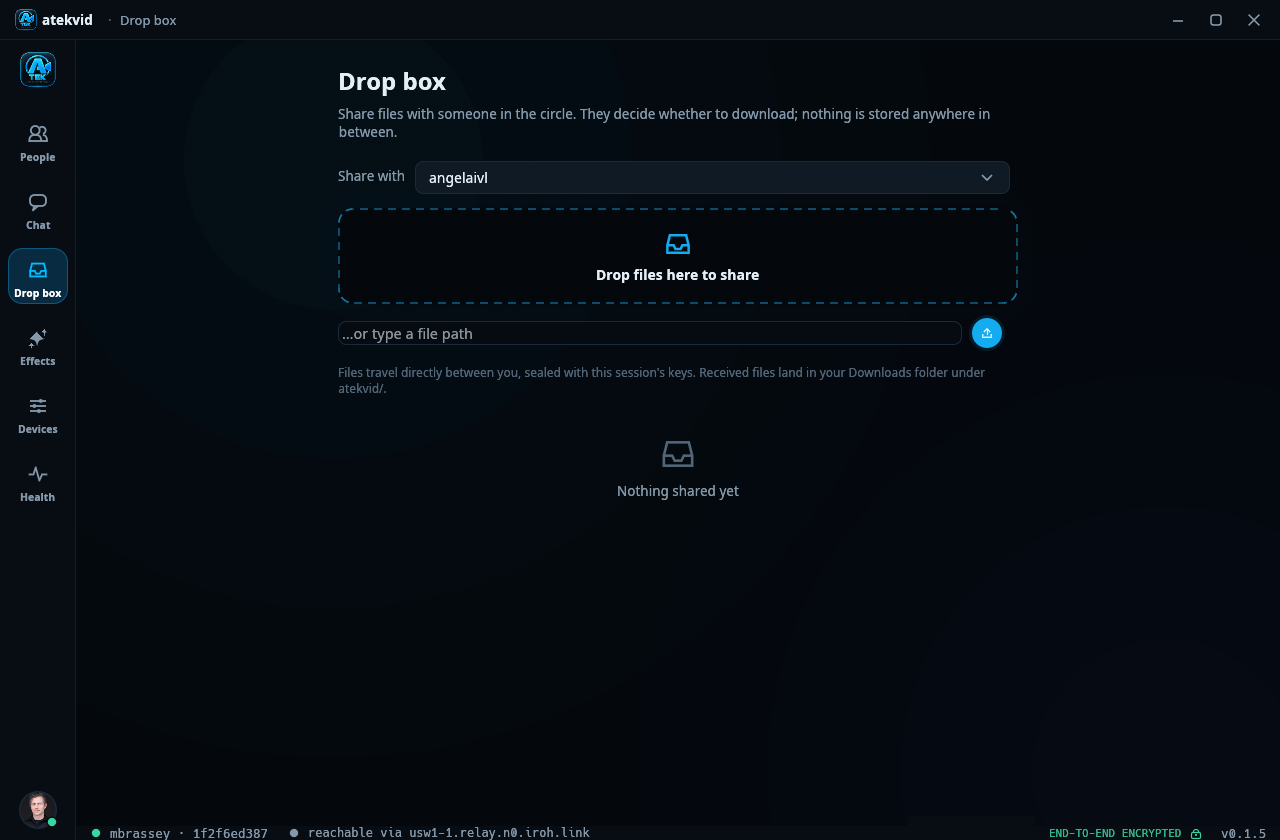
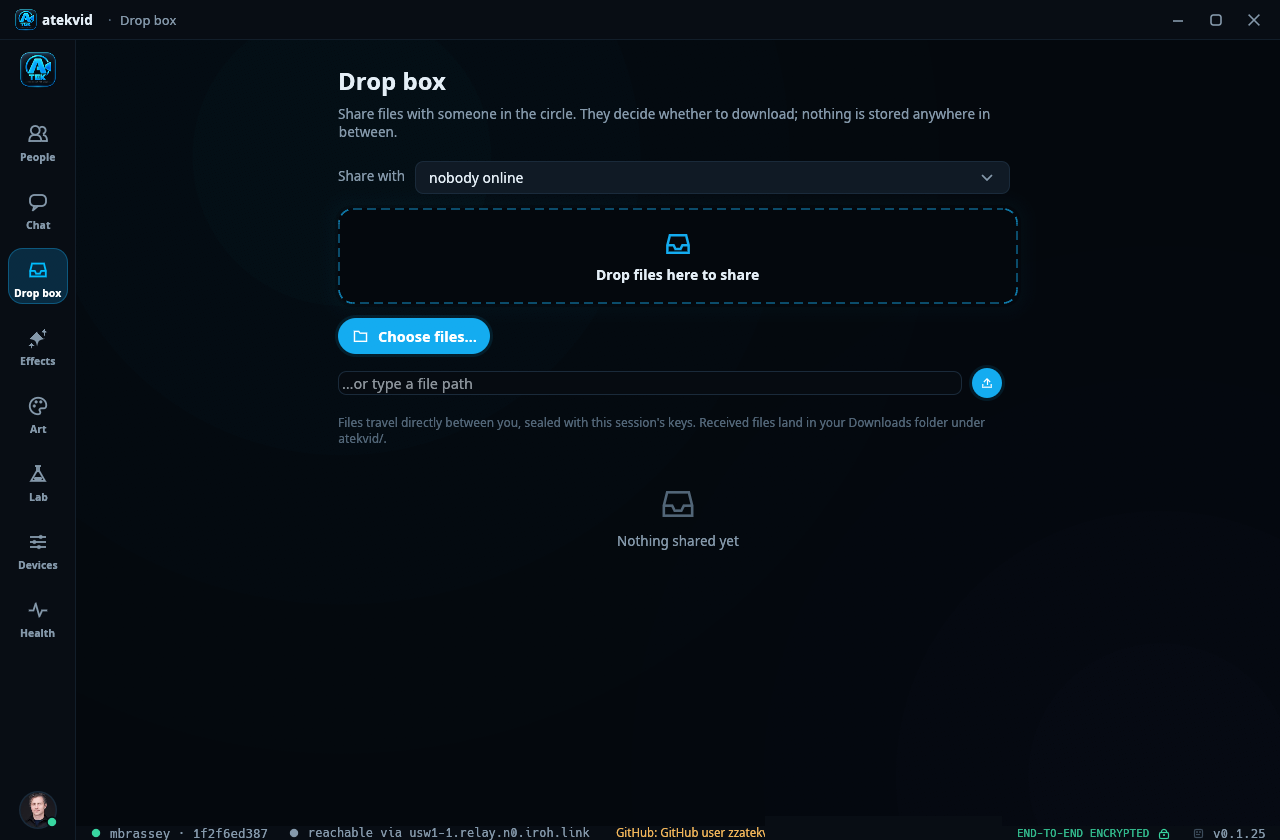
atekvid 0.1.25: pictures in the share picker, and a file chooser for sending

diff --git a/README.md b/README.md
@@ -90,7 +90,9 @@ by hand.
 - **Screen sharing.** Share a screen or a single window with everyone in the
   call; several people can share at once. On Wayland the desktop's own picker
   chooses what is shared (through the ScreenCast portal and PipeWire); on X11
-  any monitor or window is captured directly, pointer included. Shared
+  any monitor or window is captured directly, pointer included, and the
+  picker shows a small picture of each screen and window so you see what you
+  are about to share. Shared
   screens take the stage and the cameras move to a strip beside them. Each
   share is its own end-to-end encrypted stream, up to 1600 px wide, tuned for
   legible text.
@@ -99,7 +101,7 @@ by hand.
   snowflake, confetti and bubble stamps) and an eraser; shapes with a fill;
   text in six typefaces with an outline; the full emoji set; the effects'
   props as stickers; and pictures from disk (PNG, JPEG, WebP, BMP, animated
-  GIF) dropped straight onto the board. Two sticker packs: a gamer pack (a
+  GIF) dropped straight onto the board or picked with *Choose pictures…*. Two sticker packs: a gamer pack (a
   pixel cube, spikes, a jump orb and a portal, a creeper, blocks, gems and
   tools, TNT, a blocky avatar, a robot, a rocket, 8-bit hearts and stars) and
   a sea-and-magic pack (mermaids, shells, fish, a dolphin, angels and wings,
@@ -171,7 +173,9 @@ by hand.
 - **Chat**, end-to-end encrypted per session, with Markdown, links, a custom
   emoji set drawn in the app's palette, typing indicator and delivery ticks.
   In a group call the chat drawer reaches everyone in the call.
-- **Drop box.** Drag a file onto the window; the other person decides whether
+- **Drop box.** Drag files onto the window, or press *Choose files…* to pick
+  them (pictures, videos, documents, anything) in your desktop's own file
+  chooser; the other person decides whether
   to download it. Files stream directly over the encrypted link with progress
   and previews, and land in `~/Downloads/atekvid/`.
 - **Snapshots and recording** (MKV, remote video with both voices mixed),
@@ -308,6 +312,12 @@ tray.
 grip to resize it, to see your effects up close.
 
 <p align="center"><img src="docs/self-view.png" width="820" alt="A bigger self view in a call"></p>
+
+**Share a screen or a window.** The call bar's screen button opens the
+picker, with a small picture of each screen and window (on Wayland, the
+desktop's own dialog).
+
+<p align="center"><img src="docs/share-picker.png" width="820" alt="The share picker"></p>
 
 **Drop box in a call.** A file offered by a participant, ready to download.
 
